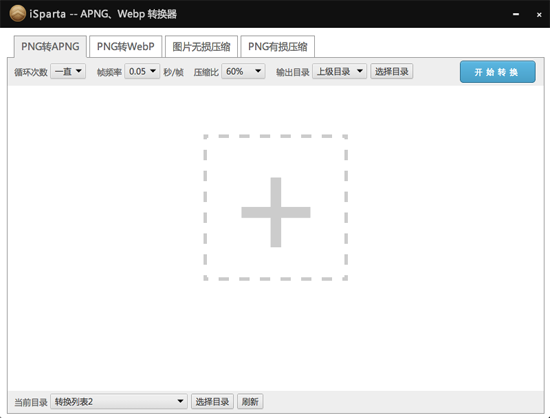
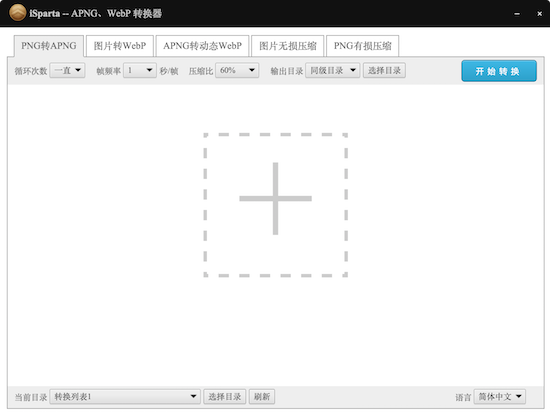
Update index.html and script
Update 2.1 release
Update description
Update preview image
Add author

diff --git a/index.html b/index.html
@@ -31,19 +31,22 @@
                 <div class="download-area clearfix">
                     <div class="download-bd">
                     <div class="info">
-                        <p>iSparta提供PNG格式的图片压缩;</p>
-                        <p>PNG格式与APNG、WebP格式的互相转换。</p>
-                        <p>iSparta支持<a href="https://github.com/iSparta/iSparta/releases/download/2.0/iSparta-mac.zip" target="_blank" id="s_download_btn_mac">mac</a>与<a href="https://github.com/iSparta/iSparta/releases/download/2.0/iSparta-win64.zip" target="_blank" id="s_download_btn_windows">Windows</a>平台</p>
+                        <p>iSparta提供PNG等图片格式的图片压缩</p>
+                        <p>PNG等格式向APNG、WebP格式的转换</p>
+                        <p>APNG动图向动态WebP格式的转换</p>
+                        <br>
+                        <p>iSparta支持<a id="mac_link" href="#" target="_blank">macOS</a>与<a id="windows_link" href="#" target="_blank">Windows</a>以及<a id="linux_link" href="#" target="_blank">Linux</p>
                         <div class="btn-area">
-                            <a class="btn-download" href="https://github.com/iSparta/iSparta/releases/download/2.0/iSparta-mac.zip" id="download_btn" target="_blank">立即下载</a>
+                            <a class="btn-download" href="#" id="download_btn" target="_blank">立即下载</a>
                         </div>
                         <div class="version-area clearfix">
-                            <div class="now">当前版本：version 2.0</div>
-                            <div class="date">更新日期：2017/8/1</div>
+                            <div class="now">当前版本：version 2.1</div>
+                            <div class="date">发布日期：2017/8/12</div>
+                            <div class="date">更新历史：<a id="history_link" href="#" target="_blank">点击查看</a></div>
                         </div>
                     </div>
                     <div class="preview">
-                        <img src="img/preview.png">
+                        <img src="img/preview.png" srcset="img/preview.png 1x, img/preview@2x.png 2x">
                     </div>
                     </div>
                 </div>
@@ -56,7 +59,7 @@
                         <li>
                             <p><i class="icon icon-1"></i></p>
                             <h3>格式转换</h3>
-                            <p>支持PNG向<strong>APNG</strong>、<strong>WebP</strong>的转换</p>
+                            <p>支持<strong>PNG</strong>向<strong>APNG</strong>和<strong>WebP</strong>转换，动图格式转换</p>
                             <p>个性配置，快捷转换</p>
                         </li>
                         <li>
@@ -86,6 +89,7 @@
                     <h3>作者:</h3>
                     <p><span>jeakeyliang@tencent.com</span></p>
                     <p><span>hahnzhu@tencent.com</span></p>
+                    <p><span>lizhuoli@bytedance.com</span></p>
                 </div>
             </div>
 

diff --git a/js/script.js b/js/script.js
@@ -1,8 +1,13 @@
 function downloadInit(){
-    var macUrl="https://github.com/iSparta/iSparta/releases/download/2.0/iSparta-mac.zip";
-    var win32Url="https://github.com/iSparta/iSparta/releases/download/2.0/iSparta-win32.zip";
-    var win64Url="https://github.com/iSparta/iSparta/releases/download/2.0/iSparta-win64.zip";
+    var macUrl="https://github.com/iSparta/iSparta/releases/download/2.1/iSparta-osx64.zip";
+    var win32Url="https://github.com/iSparta/iSparta/releases/download/2.1/iSparta-win32.zip";
+    var win64Url="https://github.com/iSparta/iSparta/releases/download/2.1/iSparta-win64.zip";
+    var linuxUrl="https://github.com/iSparta/iSparta/releases/download/2.1/iSparta-linux64.zip";
     var unknownUrl="https://github.com/iSparta/iSparta/releases";
+    $("#mac_link").attr("href",macUrl);
+    $("#windows_link").attr("href",win64Url);
+    $("#linux_link").attr("href",linuxUrl);
+    $("#history_link").attr("href",unknownUrl);
     var osInfo = getOsInfo();
     if(osInfo === "mac") {
         $("#download_btn").attr("href",macUrl);
@@ -10,6 +15,8 @@ function downloadInit(){
         $("#download_btn").attr("href",win64Url);
     } else if (osInfo === "win32") {
         $("#download_btn").attr("href",win32Url);
+    } else if (osInfo === "linux") {
+        $("#download_btn").attr("href",linuxUrl);
     } else {
         $("#download_btn").attr("href",unknownUrl);
     }

diff --git a/css/style.css b/css/style.css
@@ -28,8 +28,8 @@ textarea{width:400px;height:110px;line-height: 20px;border:#bababa solid 1px;out
 
 .header .btn-download{font-size: 20px;display: block;border-radius: 6px;border:#fff 1px solid;height:50px;line-height: 50px;text-align: center;}
 .header .btn-download:hover{text-decoration: none;background: #fff;color:#e85244;}
-.header .version-area .now{float:left;}
-.header .version-area .date{float:left;margin-left:10px;}
+.header .version-area .now{}
+.header .version-area .date{}
 
 
 .sec-screen{background:rgba(245,245,245,.9);position: relative;z-index: 999;position: absolute;width:100%;left:0%;top:100%;box-shadow:0px 0px 10px  rgba(255,255,255,.5) }
